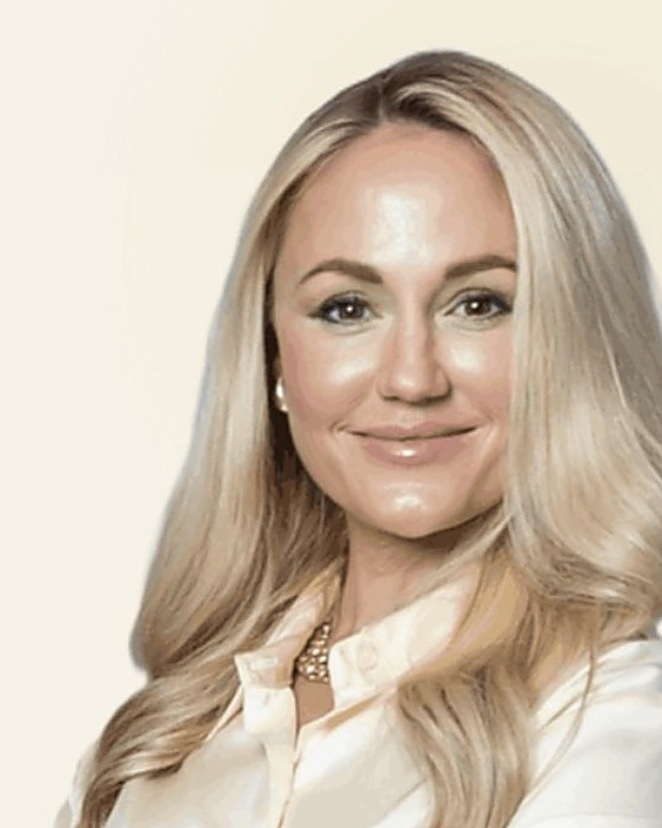
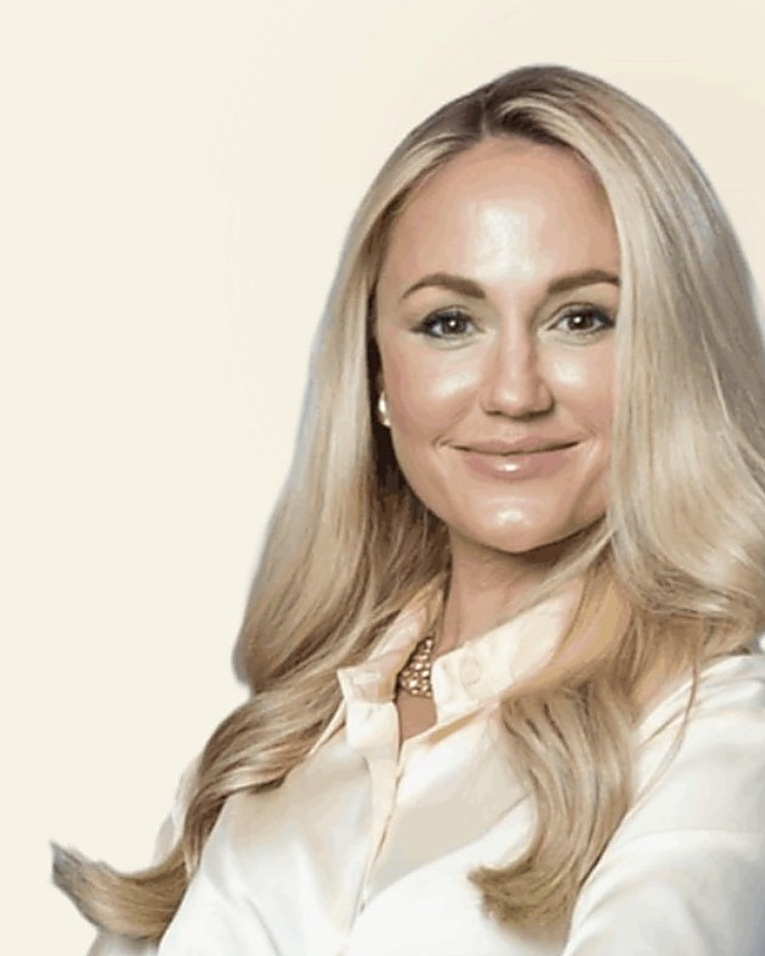
Zoom out Emily's portrait
Painted out the source card's type (its backdrop there is a perfectly
flat cream, verified across the region, so the fill is invisible) and
pulled the crop's left bound out from x629 to x545. That widens the frame
from 543px to 627px of source, showing her shoulders and blouse rather
than a tight head-and-shoulders, with more breathing room above. Right
bound still sits on the real image edge, so there is no synthetic
background anywhere in the frame.

Claude-Session: https://claude.ai/code/session_01Rzvc3e42ksFqs8BRkkvkLo

diff --git a/regenortho/providers/emily-bahnick.html b/regenortho/providers/emily-bahnick.html
@@ -11,13 +11,13 @@
 <meta property="og:title" content="Emily Bahnick, MSN, RN | IV Infusion Nurse Palm Beach Gardens">
 <meta property="og:description" content="Meet Emily Bahnick, MSN, RN — the IV infusion nurse and care coordinator at RegenOrtho Palm Beach in Palm Beach Gardens, with 10+ years of nursing experience.">
 <meta property="og:url" content="https://www.regenorthopb.com/providers/emily-bahnick.html">
-<meta property="og:image" content="https://www.regenorthopb.com/assets/team/emily-bahnick.jpg?v=4684f537">
+<meta property="og:image" content="https://www.regenorthopb.com/assets/team/emily-bahnick.jpg?v=83eadbee">
 <meta property="og:image:width" content="1200">
 <meta property="og:image:height" content="630">
 <meta name="twitter:card" content="summary_large_image">
 <meta name="twitter:title" content="Emily Bahnick, MSN, RN | IV Infusion Nurse Palm Beach Gardens">
 <meta name="twitter:description" content="Meet Emily Bahnick, MSN, RN — the IV infusion nurse and care coordinator at RegenOrtho Palm Beach in Palm Beach Gardens, with 10+ years of nursing experience.">
-<meta name="twitter:image" content="https://www.regenorthopb.com/assets/team/emily-bahnick.jpg?v=4684f537">
+<meta name="twitter:image" content="https://www.regenorthopb.com/assets/team/emily-bahnick.jpg?v=83eadbee">
 <meta name="theme-color" content="#071A38">
 <link rel="icon" type="image/png" sizes="32x32" href="../assets/media/favicon-32.png?v=1">
 <link rel="icon" type="image/png" sizes="16x16" href="../assets/media/favicon-16.png?v=1">
@@ -112,7 +112,7 @@
 <section class="section">
   <div class="provider-grid">
     <figure class="provider-photo reveal">
-      <img src="../assets/team/emily-bahnick.jpg?v=4684f537" alt="Emily Bahnick, MSN, RN — IV Infusion Nurse & Care Coordinator at RegenOrtho Palm Beach" width="560" height="700">
+      <img src="../assets/team/emily-bahnick.jpg?v=83eadbee" alt="Emily Bahnick, MSN, RN — IV Infusion Nurse & Care Coordinator at RegenOrtho Palm Beach" width="560" height="700">
     </figure>
     <div class="provider-bio reveal" style="--d:120ms">
       <div class="sym-card provider-card">

diff --git a/regenortho/about.html b/regenortho/about.html
@@ -135,7 +135,7 @@
       <span class="doc-photo"><img src="assets/team/orlando-cedeno.jpg?v=3ac660d6" alt="Dr. Orlando Cedeno, DPM — DPM, FACFAS · Owner" width="450" height="560" loading="lazy"></span>
       <span class="doc-body"><strong>Dr. Orlando Cedeno, DPM</strong><span class="doc-role">DPM, FACFAS · Owner</span><span class="doc-bio">Board certified in foot surgery by the American Board of Foot & Ankle Surgery, fellowship-trained in reconstructive and trauma surgery of the foot and ankle, with advanced expertise in vein care.</span><em class="svc-more">Full profile <svg viewBox="0 0 16 12" width="14" height="10" aria-hidden="true"><path fill="none" stroke="currentColor" stroke-width="2" d="M1 6h13M9 1l5 5-5 5"/></svg></em></span>
     </a><a class="doc-card reveal" href="providers/emily-bahnick.html">
-      <span class="doc-photo"><img src="assets/team/emily-bahnick.jpg?v=4684f537" alt="Emily Bahnick, MSN, RN — IV Infusion Nurse & Care Coordinator" width="450" height="560" loading="lazy"></span>
+      <span class="doc-photo"><img src="assets/team/emily-bahnick.jpg?v=83eadbee" alt="Emily Bahnick, MSN, RN — IV Infusion Nurse & Care Coordinator" width="450" height="560" loading="lazy"></span>
       <span class="doc-body"><strong>Emily Bahnick, MSN, RN</strong><span class="doc-role">IV Infusion Nurse & Care Coordinator</span><span class="doc-bio">Registered nurse with MSN and BSN degrees and more than 10 years of experience — your IV infusion nurse and care coordinator, focused on longevity, reducing reliance on pharmaceuticals, and healing from within.</span><span class="doc-stats"><span>10+ years experience</span><span>MSN · BSN</span><span>Registered Nurse</span></span><em class="svc-more">Full profile <svg viewBox="0 0 16 12" width="14" height="10" aria-hidden="true"><path fill="none" stroke="currentColor" stroke-width="2" d="M1 6h13M9 1l5 5-5 5"/></svg></em></span>
     </a></div>
   <div class="team-strip">

diff --git a/regenortho/index.html b/regenortho/index.html
@@ -456,7 +456,7 @@
       </span>
     </a>
     <a class="doc-card reveal" href="providers/emily-bahnick.html" style="--d:240ms">
-      <span class="doc-photo"><img src="assets/team/emily-bahnick.jpg?v=4684f537" alt="Emily Bahnick, MSN, RN — IV infusion nurse and care coordinator at RegenOrtho Palm Beach" width="450" height="560" loading="lazy"></span>
+      <span class="doc-photo"><img src="assets/team/emily-bahnick.jpg?v=83eadbee" alt="Emily Bahnick, MSN, RN — IV infusion nurse and care coordinator at RegenOrtho Palm Beach" width="450" height="560" loading="lazy"></span>
       <span class="doc-body">
         <strong>Emily Bahnick, MSN, RN</strong>
         <span class="doc-role">IV Infusion Nurse &amp; Care Coordinator</span>

diff --git a/regenortho/iv-therapy.html b/regenortho/iv-therapy.html
@@ -211,7 +211,7 @@
 </section>
 <section class="section">
   <div class="nurse-credit reveal">
-    <figure class="nurse-photo"><img src="assets/team/emily-bahnick.jpg?v=4684f537" alt="Emily Bahnick, MSN, RN — IV infusion nurse at RegenOrtho Palm Beach" width="360" height="450" loading="lazy"></figure>
+    <figure class="nurse-photo"><img src="assets/team/emily-bahnick.jpg?v=83eadbee" alt="Emily Bahnick, MSN, RN — IV infusion nurse at RegenOrtho Palm Beach" width="360" height="450" loading="lazy"></figure>
     <div class="nurse-copy">
       <p class="eyebrow">Your infusion nurse</p>
       <h2>Every drip placed by <em>Emily Bahnick, MSN, RN</em></h2>
